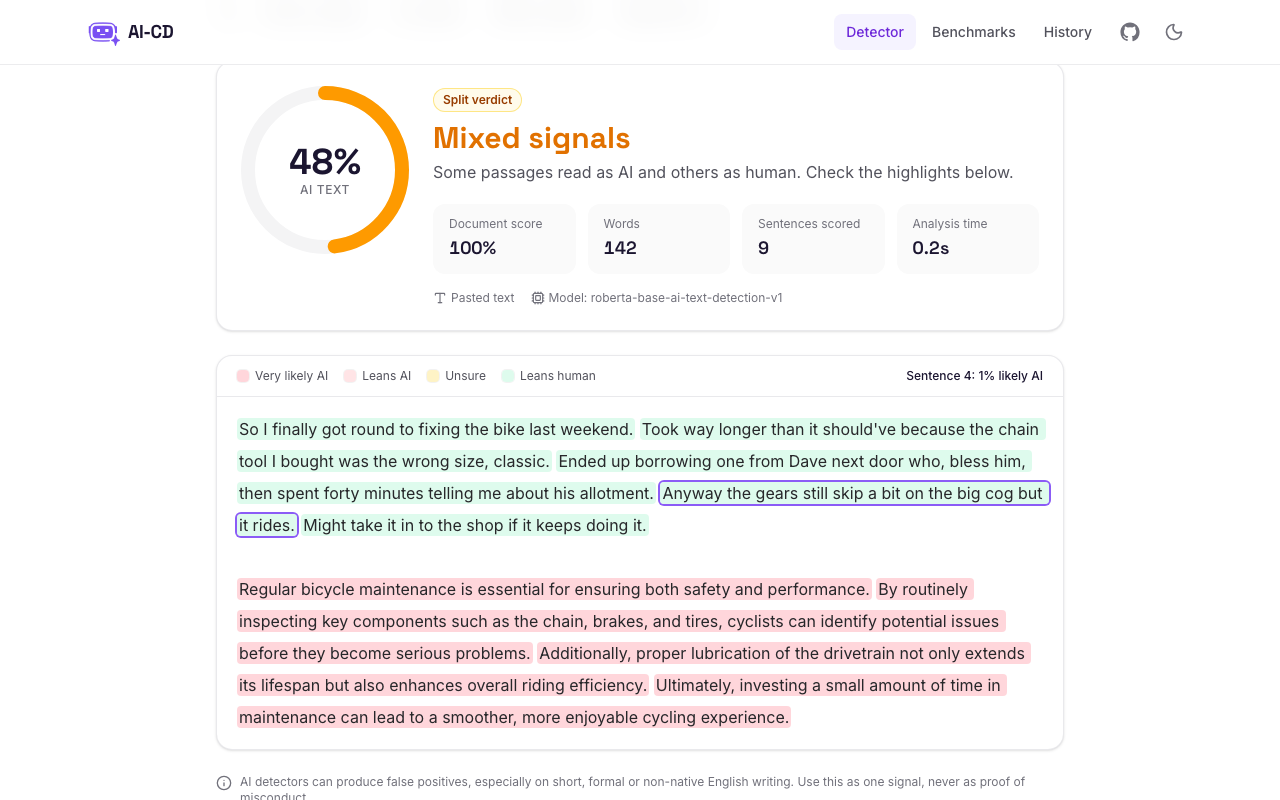
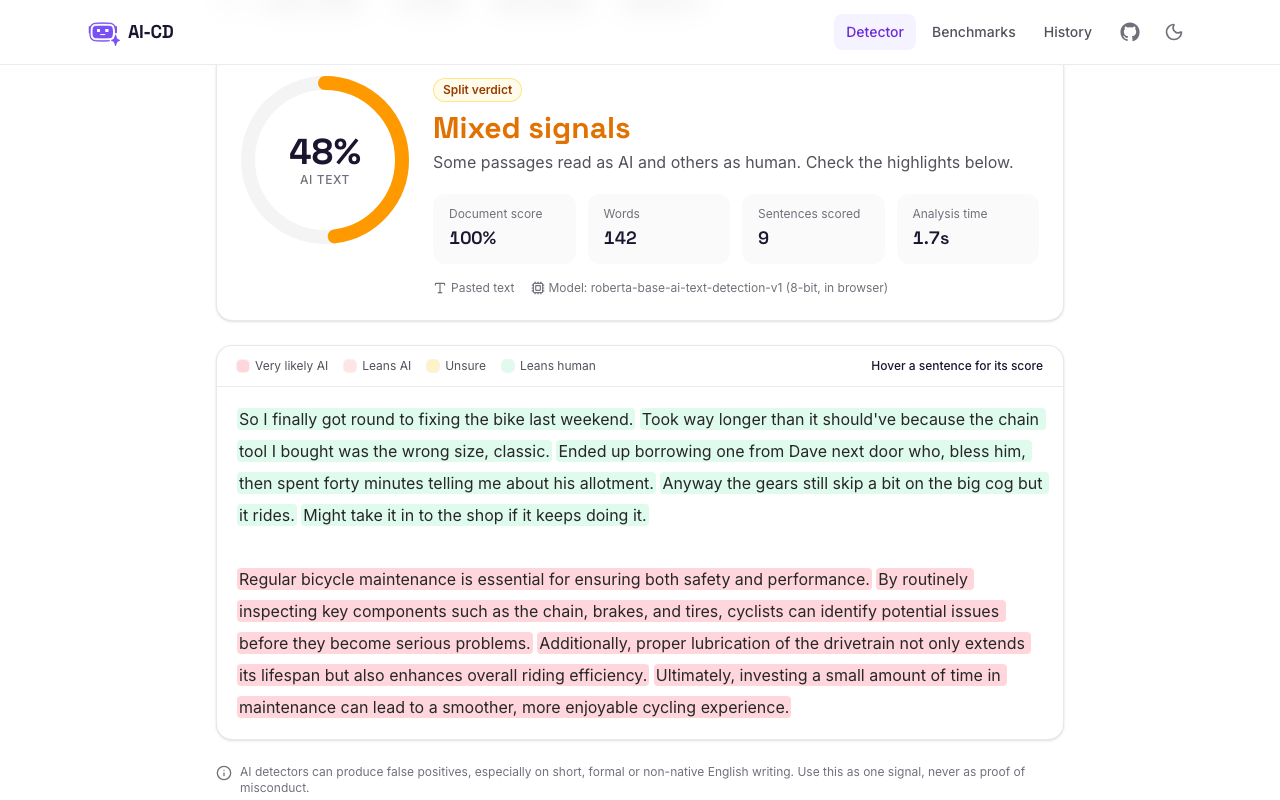
Score only the 8-bit model in onnx_check; refresh detect screenshot

diff --git a/backend/eval/onnx_check.py b/backend/eval/onnx_check.py
@@ -1,9 +1,9 @@
 # AI Content Detector - CSC3003S Capstone Project (2025)
 # Authors: Meekaaeel Booley, Mubashir Dawood, Zubair Elliot
 
-"""Check the browser's ONNX exports score the benchmark like the PyTorch model.
+"""Check the browser's 8-bit ONNX model scores the benchmark like the PyTorch weights.
 
-Usage: python -m eval.onnx_check DIR  (DIR holds model.onnx, model_quantized.onnx and the tokenizer)
+Usage: python -m eval.onnx_check DIR  (DIR holds model_quantized.onnx and the tokenizer)
 """
 
 import json
@@ -13,16 +13,15 @@ from pathlib import Path
 import numpy as np
 import onnxruntime as ort
 import pandas as pd
-import torch
 from transformers import AutoConfig, AutoTokenizer
 
-from app.config import get_settings
-from app.detector import TransformerDetector, clean_text
+from app.detector import clean_text
 from app.normalize import normalize
 from eval.build import OUT as DATA
 from eval.run import document_scores, metrics, verdicts
 
 OUT = Path(__file__).parent / "onnx.json"
+RESULTS = Path(__file__).parent / "results.json"
 
 
 class OnnxDetector:
@@ -61,28 +60,17 @@ def main(folder: Path) -> None:
     full = pd.read_json(DATA, lines=True)
     df = full[full.label >= 0].reset_index(drop=True)
     y = df.label.to_numpy()
-    texts = [normalize(t)[0] for t in df.text]
-    device = "mps" if torch.backends.mps.is_available() else "cpu"
-
-    variants = {
-        "pytorch": lambda: TransformerDetector(
-            get_settings().model_id, batch_size=32, device=device
-        ),
-        "onnx_fp32": lambda: OnnxDetector(folder, "model.onnx"),
-        "onnx_q8": lambda: OnnxDetector(folder, "model_quantized.onnx"),
+    detector = OnnxDetector(folder, "model_quantized.onnx")
+    p = document_scores(detector, [normalize(t)[0] for t in df.text])
+    reference = json.loads(RESULTS.read_text())["systems"]["roberta_2026"]
+    report = {
+        "pytorch": {
+            "clean": reference["conditions"]["clean"],
+            "verdicts": reference["verdicts"]["calibrated"],
+        },
+        "onnx_q8": {"clean": metrics(y, p), "verdicts": verdicts(detector, full)["calibrated"]},
     }
-    report, reference = {}, None
-    for key, make in variants.items():
-        detector = make()
-        p = document_scores(detector, texts)
-        entry = {"clean": metrics(y, p), "verdicts": verdicts(detector, full)["calibrated"]}
-        if reference is None:
-            reference = p
-        else:
-            entry["max_abs_diff"] = round(float(np.abs(p - reference).max()), 4)
-            entry["mean_abs_diff"] = round(float(np.abs(p - reference).mean()), 5)
-        report[key] = entry
-        print(key, json.dumps(entry), flush=True)
+    print(json.dumps(report["onnx_q8"]), flush=True)
     OUT.write_text(json.dumps(report, indent=2) + "\n")
     print(f"Wrote {OUT}")
 
